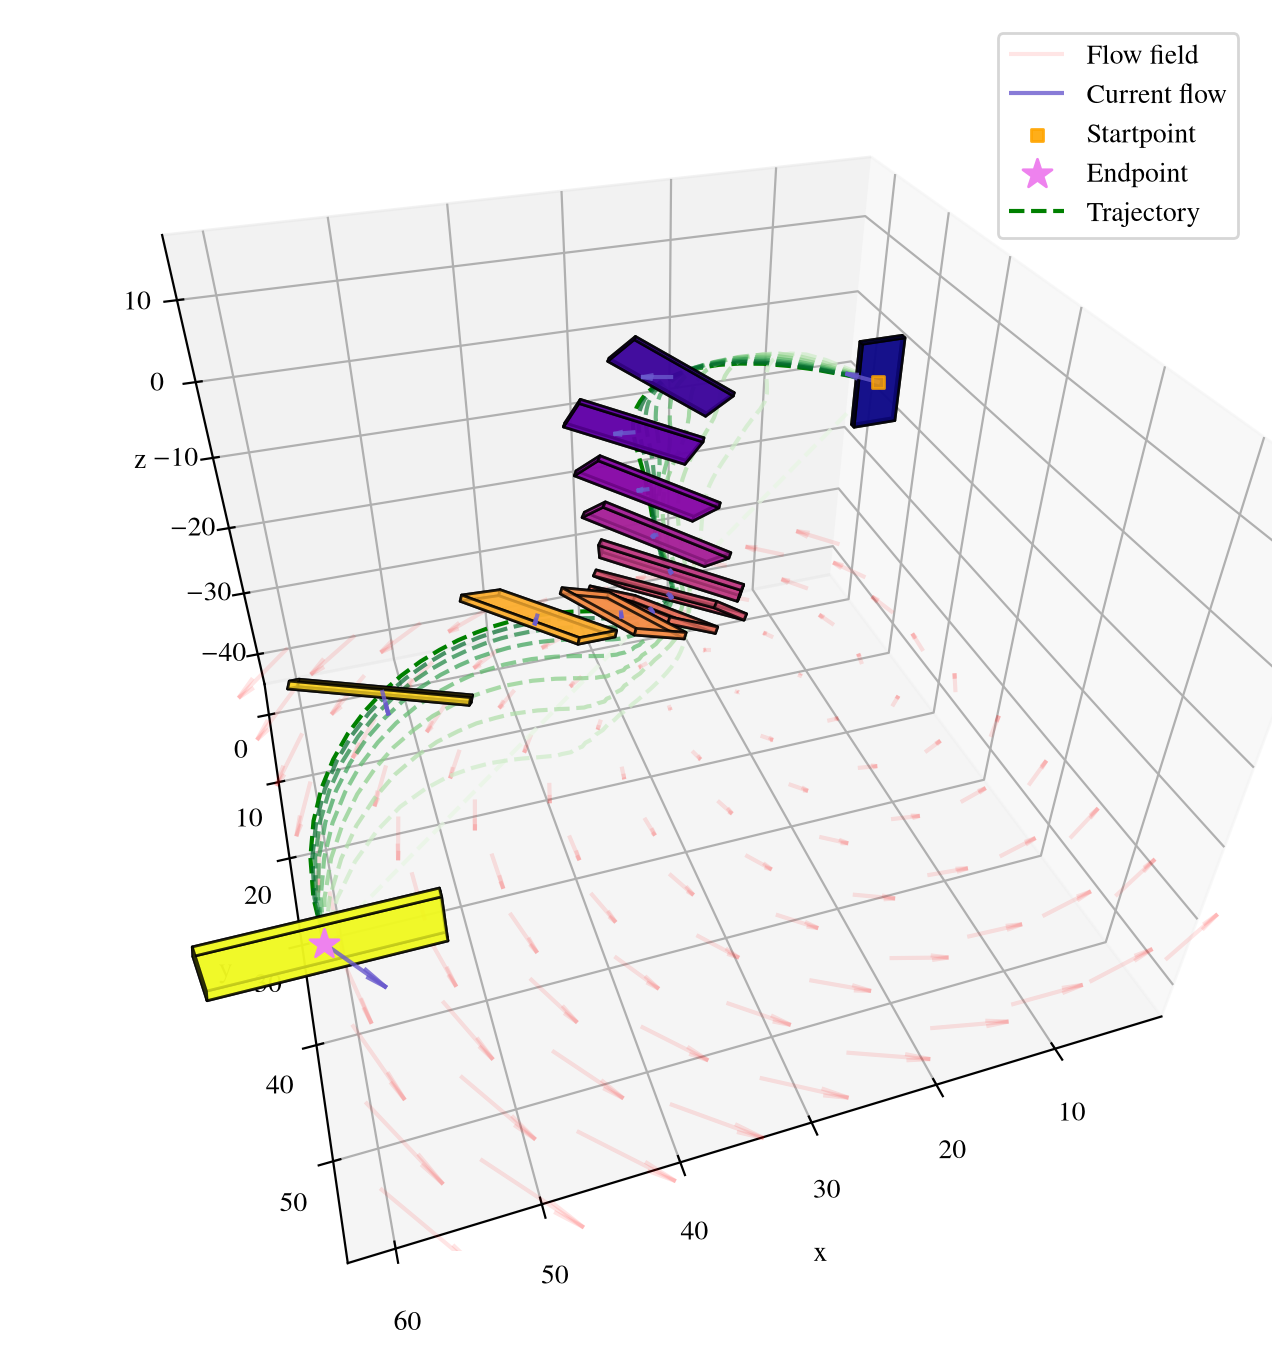
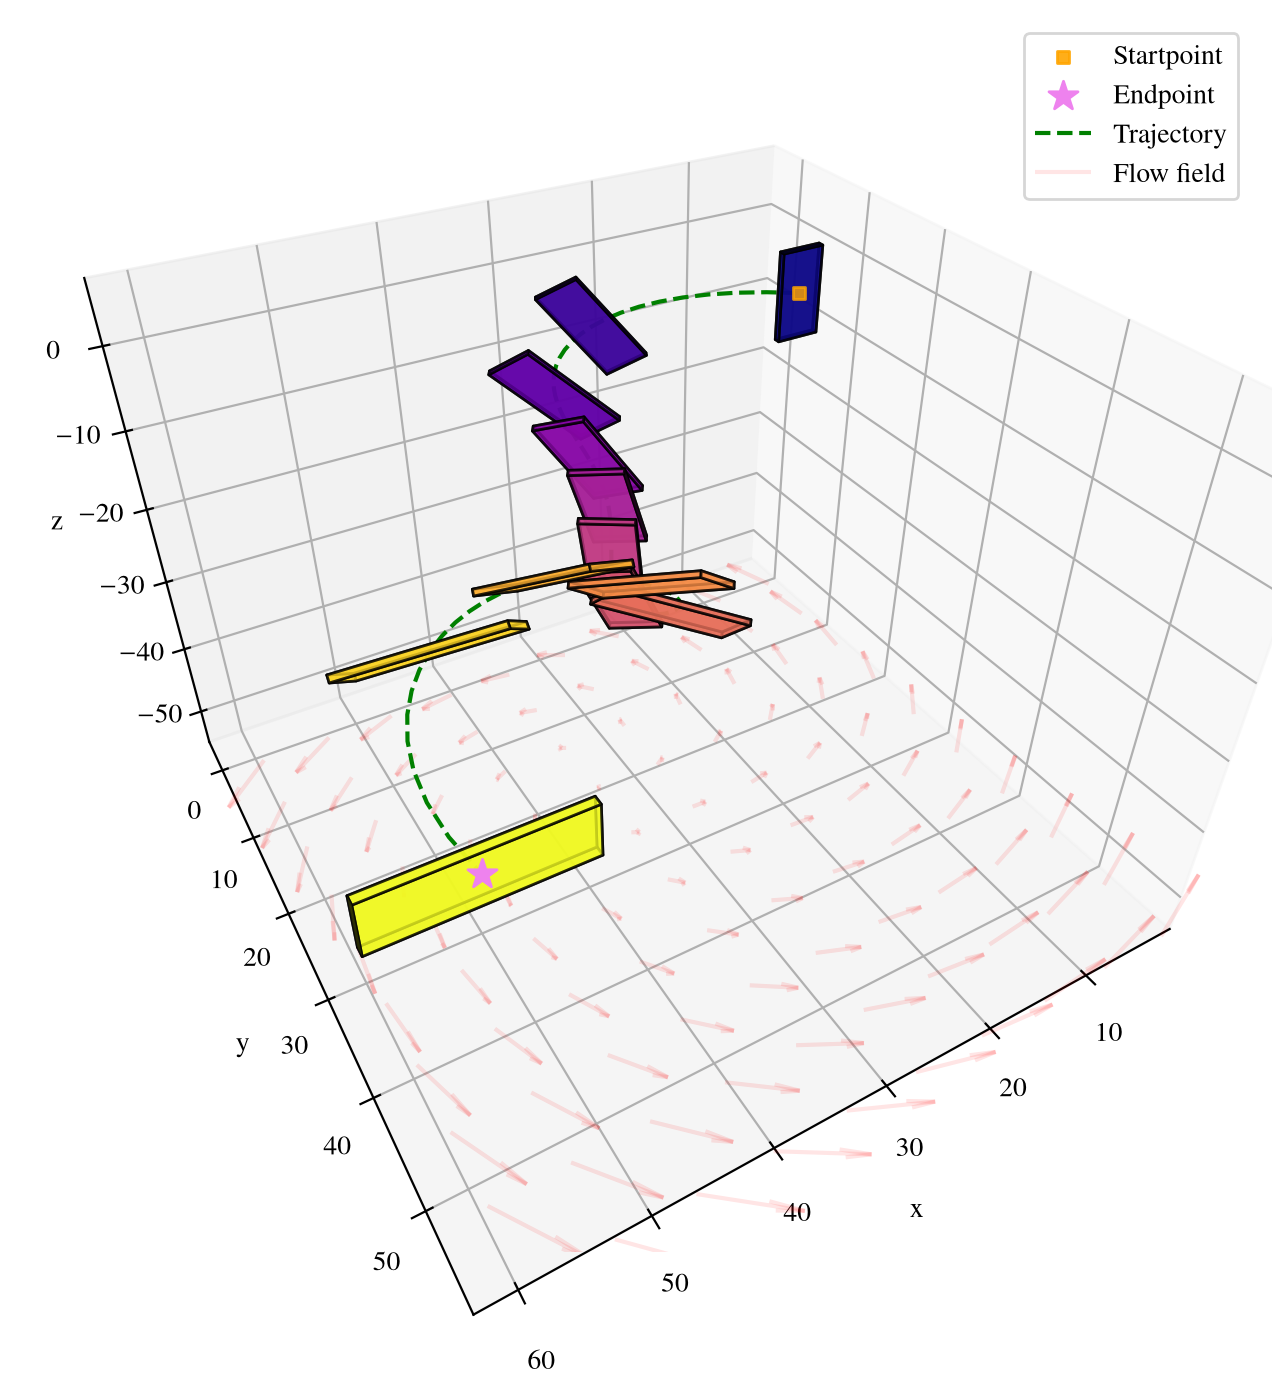
good zermelo example prose

diff --git a/paper/body/5-lie-groups.tex b/paper/body/5-lie-groups.tex
@@ -365,27 +365,45 @@ We see in the front view (\cref{fig:satellite-front}) that even though the satel
 
 Lagrangian formulations can also be used to find optimal solutions to certain problems. In~\cite[Example 5.2]{ferraroParallelIterativeMethod2025} they formulate a fuel-optimal navigation problem in a wind field. We extend it to $\SE(3)$ by letting the system take into account the orientation of the ship, which is in fact a spaceship in our model that can reorient itself in three dimensions.
 
-Specifically, we think of a prism-like ship with one long axis and two short ones, such that the flow effectively pushes the ship more if it is perpendicular to the long axis rather than parallel. Let $D = \operatorname{diag}(d_1, d_2, d_3)$ be the body-frame drag weights, with $d_1$ on the long axis and $d_1 \ll d_2, d_3$. The Lagrangian, associated now to the cost of moving, is
-\[
-	L(R, x, \omega, v) = \tfrac{1}{2}\, \omega^T I\, \omega + \tfrac{1}{2}\, (v - W(x))^T R D\, R^T (v - W(x)),
-\]
-where the world-frame slip $v - W(x)$ is rotated into the body-frame by $R^T$ and then weighted by $D$. We discretize with the trapezoidal quadrature, exactly as in the satellite case.
+We model the ship as a box with side lengths $(a, b, c)$ and one long axis ($a \gg b, c$). The cost of moving is the sum of two quadratic forms. The first is a \emph{turning cost} that penalizes spinning,
+\[ \tfrac{1}{2}\, \omega^T I\, \omega, \qquad I = \operatorname{diag}(b^2 + c^2,\; a^2 + c^2,\; a^2 + b^2), \]
+where $I$ is the body-frame inertia of the box. The second is a \emph{drag cost} that penalizes moving against the flow $W(x)$. The resistance along each body axis is proportional to the area of the face perpendicular to it, so the drag weights are those face areas,
+\[ D = k \operatorname{diag}(bc,\; ac,\; ab), \]
+where $k$ is the drag coefficient. The long axis gets the smallest weight $bc$, so the ship slips most easily when travelling lengthwise.
 
-\begin{figure}
+Since turning also drags the ship's corners through the flow, the drag is evaluated not at the center but at each of the eight corners $r_c$ of the box. The velocity of corner $r_c$ relative to the flow, expressed in the body frame, is
+\[ s_c = R^T\big(v - W(x)\big) + \omega \times r_c, \]
+the world-frame slip $v - W(x)$ rotated into the body frame by $R^T$, plus the rotational contribution $\omega \times r_c$ coming from the corner's offset. Averaging over the $8$ corners gives the Lagrangian
+\[
+	L(R, x, \omega, v) = \tfrac{1}{2}\, \omega^T I\, \omega + \frac{1}{16} \sum_{c} s_c^T D\, s_c.
+\]
+We discretize with the trapezoidal quadrature, exactly as in the satellite case.
+
+\begin{figure}[ht]
      \centering
-     \begin{subfigure}[ht]{0.48\textwidth}
-         \centering
-         \includegraphics[width=\textwidth]{zermelo-diag.png}
-         \caption{Diagonal view.}\label{fig:zermelo-diag}
-     \end{subfigure}
-     \hfill
-     \begin{subfigure}[ht]{0.48\textwidth}
+     \begin{subfigure}[ht]{0.80\textwidth}
          \centering
          \includegraphics[width=\textwidth]{zermelo-top.png}
          \caption{Top view.}\label{fig:zermelo-top}
      \end{subfigure}
-    \caption{Zermelo fuel optimization problem in $\SE(3)$. Bottom red arrows show flow field, upper arrows show how the flow affects the rigidbody in the given position.}\label{fig:zermelo}
+     \begin{subfigure}[ht]{0.48\textwidth}
+         \centering
+         \includegraphics[width=\textwidth]{zermelo-side.png}
+         \caption{Side view.}\label{fig:zermelo-side}
+     \end{subfigure}
+     \hfill
+     % \begin{subfigure}[ht]{0.48\textwidth}
+     %     \centering
+     %     \includegraphics[width=\textwidth]{zermelo-diag.png}
+     %     \caption{Diagonal view.}\label{fig:zermelo-diag}
+     % \end{subfigure}
+     % \hfill
+     \begin{subfigure}[ht]{0.48\textwidth}
+         \centering
+         \includegraphics[width=\textwidth]{zermelo-trajectory.png}
+         \caption{Positional trajectory only. Fainter green paths indicate intermediate solver iterations.}\label{fig:zermelo-trajectory}
+     \end{subfigure}
+    \caption{Zermelo fuel-optimal navigation in $\SE(3)$. Ship starts at the orange square and needs to reach the position and orientation at the violet star. Prisms indicate evenly spaced snapshots of the ship's position and orientation. Green path indicates positional trajectory. Red arrows indicate the wind field, the blue arrows indicate the slip at the ship's current position.}\label{fig:zermelo}
 \end{figure}
 
-\todo{explain behavior}
-% OLD: Here, we see that in the first 3--4 snapshots the ship is orientating itself using the direction of the flow. Interestingly, we see that between the last and second-to-last snapshot, the ship does a sharp turn. This is to maximize the amount of time the ship is being maximally pushed by the flow. In fact, the flow helps the ship turn in that direction and the flow is greater away from the center, so delaying the turn also helps make the turn itself cheaper.
+The simulation results are presented in \cref{fig:zermelo}. We see in the top view (\cref{fig:zermelo-top}) that the ship does not head straight for the target but rather follows two arcs, continually turning so that its long, low-drag axis stays aligned with the slip $v - W(x)$. Midway through, the snapshots bunch tightly together at the center of the vortex where the wind is small. The ship slows almost to a standstill, and the drag is cheap regardless of orientation, it uses this stretch to set up the final rotation. In the side view (\cref{fig:zermelo-side}) we can then see it re-align and accelerate out into the final approach, orientating itself to take advantage of the slight upwards wind, reaching the target position and orientation.

diff --git a/code/main.py b/code/main.py
@@ -44,16 +44,55 @@ def plot_se3():
 
     print("Solving Zermello...")
     example, box = se3.get_example(ZermeloSE3)
-    repetitions = 1000
+    repetitions = 2000
     paths, residuals = example.snapshot(repetitions, snapshots=8, tol=0.0)
 
     print("Plotting...")
-    se3.plot(0, example=example, paths=paths, box=box, elev=0, azim=-90, static=True)
+    se3.plot(
+        0,
+        example=example,
+        paths=paths,
+        box=box,
+        elev=4,
+        azim=-72,
+        static=True,
+        show_intermediate_paths=False,
+    )
     save("zermelo-side.png")
-    se3.plot(0, example=example, paths=paths, box=box, elev=37, azim=-72, static=True)
-    save("zermelo-diag.png")
-    se3.plot(0, example=example, paths=paths, box=box, elev=90, azim=0, static=True)
+    se3.plot(
+        0,
+        example=example,
+        paths=paths,
+        box=box,
+        elev=90,
+        azim=-90,
+        static=True,
+        show_intermediate_paths=False,
+    )
     save("zermelo-top.png")
+
+    se3.plot(
+        0,
+        example=example,
+        paths=paths,
+        box=box,
+        elev=37,
+        azim=-60,
+        static=True,
+        show_intermediate_paths=False,
+    )
+    save("zermelo-diag.png")
+    se3.plot(
+        0,
+        example=example,
+        paths=paths,
+        box=box,
+        elev=59,
+        azim=-84,
+        static=True,
+        hide_rotations=True,
+    )
+    save("zermelo-trajectory.png")
     print("Done")
 
 
